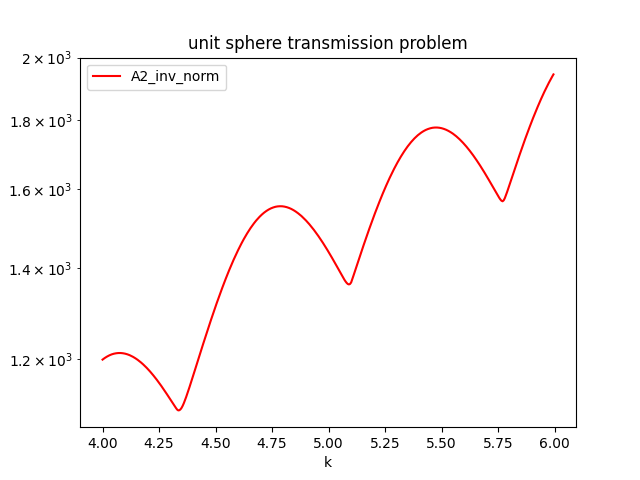
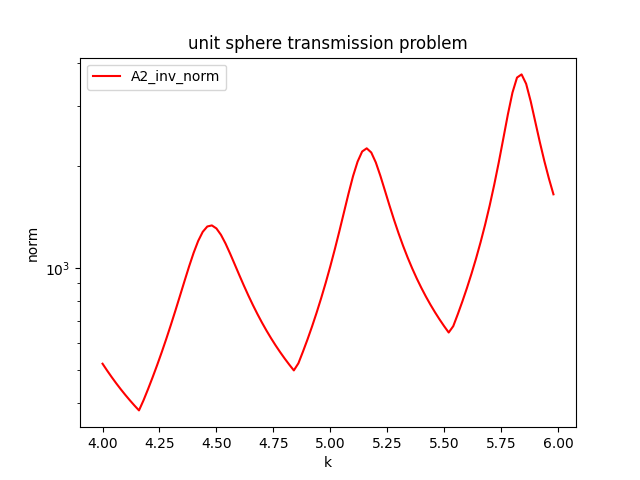
Update readme.md

diff --git a/demo/demo_3d_plot_Sio.py b/demo/demo_3d_plot_Sio.py
@@ -23,7 +23,7 @@ from src.managers import CoreManager
 ti.init(arch=ti.gpu, kernel_profiler=True)
 
 N = 50
-wave_numbers = [16.0 + i * 1.0 / N for i in range(2 * N)]
+wave_numbers = [4.0 + i * 1.0 / N for i in range(2 * N)]
 A1_inv_norms = [0.0 for i in range(len(wave_numbers))]
 A2_inv_norms = [0.0 for i in range(len(wave_numbers))]
 

diff --git a/readme.md b/readme.md
@@ -13,12 +13,16 @@
 
 ### Norm analysis (Still Working on! 👨💻)
 * The sample step of wave number is 1/30, which implies for wavenumbers between [16, 18], 60 points are sampled.
-* Precious matters, float64 shows more stability than float32 for operator AI (Somehow not vert obvious for operator AII).
-### The norm of AI
-<img src="demo/A1_plot_Neumann1_Dirichlet1.png" height="256">
+* Precious matters, float64 shows more stability than float32 for operator AI (Somehow not very obvious for operator AII).
+### The norm of AI (Left) and Augmented AI (Right)
+* Although I forgot to put them together into one figure, it is still obviously the right figure (Augmented) averagely 10 times smaller, as well as holding shorted peaks.
 
-### The norm of AII
-<img src="demo/A2_plot_Neumann1_Dirichlet1.png" height="256">
+<img src="demo/A1_plot_Neumann1_Dirichlet1.png" height="192"> <img src="demo/A1_plot_augment_1_1.png" height="192">
+
+### The norm of AII (Left) and Augmented AI (Right)
+* Samilar as above
+
+<img src="demo/A2_plot_Neumann1_Dirichlet1.png" height="192"> <img src="demo/A2_plot_augment_1_1.png" height="192">
 
 ### How to run the code
 
